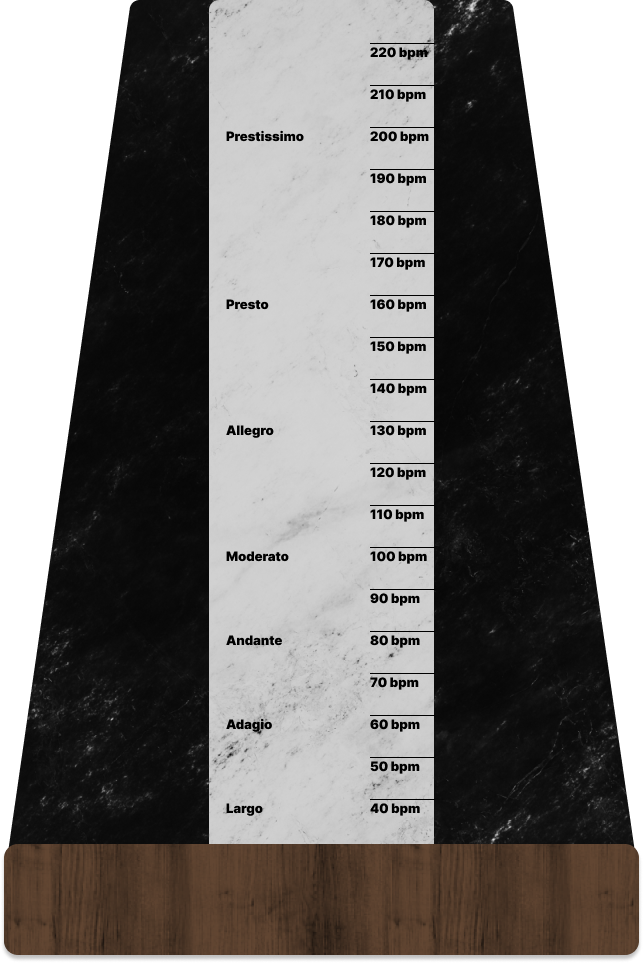
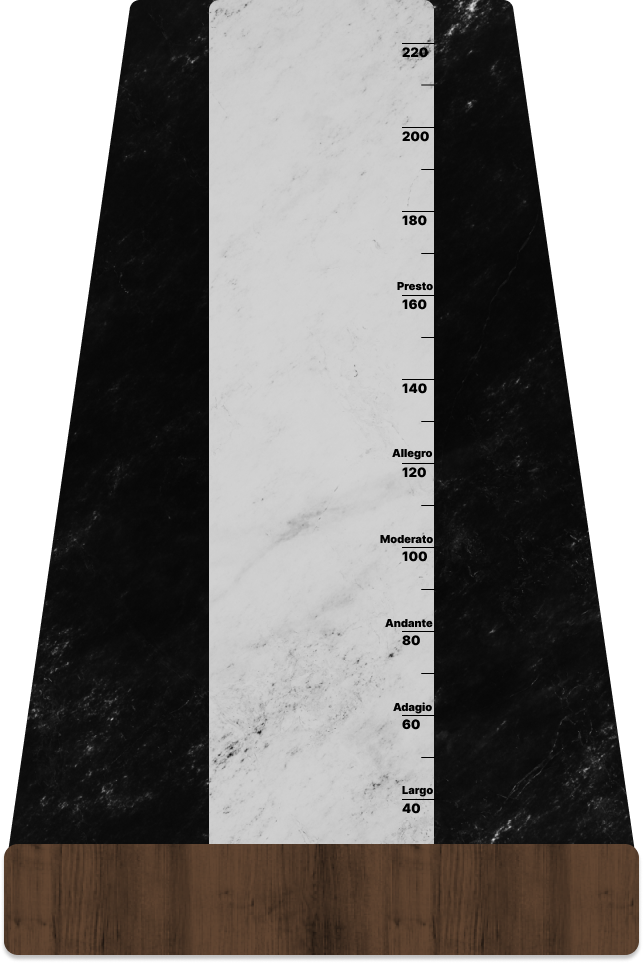
updated metronomeBase to be more concise/compact

diff --git a/src/css/Metronome.css b/src/css/Metronome.css
@@ -30,6 +30,8 @@
 
 .beater-fixed {
   background-image: none;
+
+  box-shadow: 5px 5px 100px 10px rgba(0, 0, 0, 0.2);
 }
 
 .sliderContainer {
@@ -50,7 +52,7 @@
   color: black;
   font-family: "Inter", sans-serif;
   font-weight: bold;
-  font-size: 1.25rem;
+  font-size: 1.1rem;
   position: absolute;
   user-select: none;
 }

diff --git a/src/components/metronome/Metronome.js b/src/components/metronome/Metronome.js
@@ -95,7 +95,7 @@ export default function Metronome() {
 						onMouseDown={startDrag}
 						style={{ bottom: ((tempo - 40) / 180) * 100 + "%" }}
 					>
-						{tempo}
+						{tempo} bpm
 					</div>
 				</div>
 			</div>
